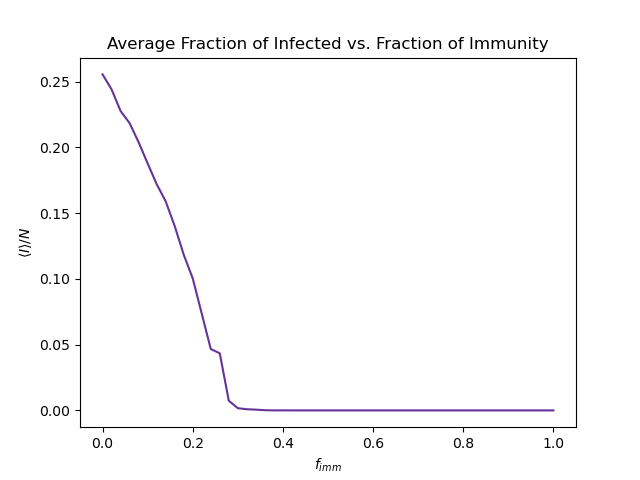
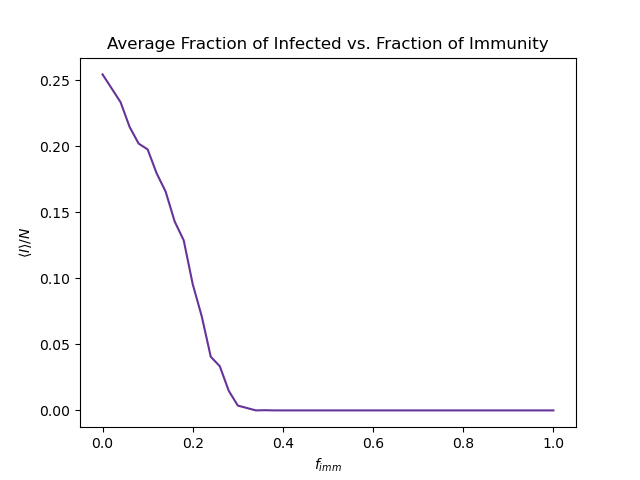
finished

diff --git a/checkpoint 2/sirs.py b/checkpoint 2/sirs.py
@@ -1,9 +1,9 @@
 import numpy as np
 import matplotlib.pyplot as plt
 from matplotlib.animation import FuncAnimation
+import matplotlib.colors as mc
 import argparse
 import random
-
 
 class SIRS:
     """Class for simulating the SIRS model on a 2D lattice"""
@@ -21,6 +21,7 @@ class SIRS:
             immune: fraction of the population with permanent immunity
             filename: filepath for writing data, if applicable
         """
+        # Initialise variables
         self.L = L
         self.sweep = L**2
         self.pS_I = pS_I
@@ -28,11 +29,9 @@ class SIRS:
         self.pR_S = pR_S
         self.immune = immune
         self.filename = filename
-
-        # Let -1 <- R; 0 <- S; 1 <- I
-        self.board = np.random.choice([-1, 0, 1], size=(L, L))
-        # Introduce permanently immune cells
-        self.immunise()
+        # Let -1 <- R; 0 <- I; 1 <- S; -2 <- immune
+        self.board = np.random.choice([-2, -1, 0, 1], size=(L, L), \
+                                      p=[immune, (1-immune)/3, (1-immune)/3, (1-immune)/3])
         # Choose which task to run
         if task == 'animation':
             self.run = self.animation
@@ -49,7 +48,6 @@ class SIRS:
                 self.filename = input("Enter filepath to save data: ")
             self.run = self.task5
 
-
     def animation(self):
         """
         Run and animate the SIRS model simulation.
@@ -58,18 +56,26 @@ class SIRS:
         print("Wait: equilibrating")
         for i in range(100 * self.sweep):
             self.update()
-
+        # Create custom cmap
+        colours = ['black', 'blue', 'red', 'white']
+        self.cmap = mc.ListedColormap(colours)
+        # Define discrete boundaries for cmap/colorbar
+        boundaries = np.linspace(-2, 1, 5)
+        # Create figure and image
         fig, ax = plt.subplots(figsize=[10, 8])
-        img = plt.imshow(self.board, cmap='bwr', vmin=-1, vmax=1)
+        img = plt.imshow(self.board, cmap=self.cmap, vmin=-2, vmax=1)
         plt.title('SIRS Model\n' +\
             rf'$p_{{S \rightarrow I}} = {self.pS_I}$, $p_{{I \rightarrow R}} = {self.pI_R}$,' +\
             rf' $p_{{R \rightarrow S}} = {self.pR_S}$, $f_{{imm}} = {self.immune}$', fontsize = 16)
-        cbar = plt.colorbar(img)
-        cbar.set_ticks([-1, 0, 1])
-        cbar.set_ticklabels(['R', 'S', 'I'], fontsize=16)
+        # Add custom colour bar
+        cbar = plt.colorbar(img, ax=ax, boundaries=boundaries)
+        cbar.set_ticks([-1.625, -0.875, -0.125, 0.625])
+        cbar.set_ticklabels([r'$immune$', r'$R$', r'$I$', r'$S$'], fontsize=16)
+
         plt.xticks([])
         plt.yticks([])  
         ani = FuncAnimation(fig, self.frame, cache_frame_data=False)
+
         plt.show()
     
     def frame(self, _):
@@ -82,13 +88,13 @@ class SIRS:
         # Clear the figure
         plt.cla()      
         # Update the figure                                                         
-        img = plt.imshow(self.board, cmap='bwr', vmin=-1, vmax=1)     
+        img = plt.imshow(self.board, cmap=self.cmap, vmin=-2, vmax=1)     
         plt.title('SIRS Model\n' +\
             rf'$p_{{S \rightarrow I}} = {self.pS_I}$, $p_{{I \rightarrow R}} = {self.pI_R}$,' +\
             rf' $p_{{R \rightarrow S}} = {self.pR_S}$, $f_{{imm}} = {self.immune}$', fontsize = 16)
         plt.xticks([])
         plt.yticks([]) 
-
+        # Return image of board for animation
         return img
     
     def update(self):
@@ -98,26 +104,22 @@ class SIRS:
         # Choose a random cell
         i = random.randint(0, self.L-1)
         j = random.randint(0, self.L-1)
-        # First check if cell is permanently immune
-        while (i, j) in self.i_cells:
-            # Exit function
-            return
         # Check state of cell and update accordingly
         if (self.board[i, j] == -1) and np.random.binomial(1, self.pR_S):
             # Change recovered to susceptible
-            self.board[i, j] = 0
-        elif (self.board[i, j] == 1) and np.random.binomial(1, self.pI_R):
+            self.board[i, j] = 1
+        elif (self.board[i, j] == 0) and np.random.binomial(1, self.pI_R):
             # Change infected to recovered
             self.board[i, j] = -1
-        elif (self.board[i, j] == 0) and np.random.binomial(1, self.pS_I):
+        elif (self.board[i, j] == 1) and np.random.binomial(1, self.pS_I):
             # Check for any infected nearest neighbours
             NN = np.array([np.roll(self.board,  1, axis=0)[i, j],
                            np.roll(self.board, -1, axis=0)[i, j],
                            np.roll(self.board,  1, axis=1)[i, j],
                            np.roll(self.board, -1, axis=1)[i, j]])
-            if 1 in set(NN):
+            if 0 in set(NN):
                 # Change susceptible to infected
-                self.board[i, j] = 1
+                self.board[i, j] = 0
 
     def task3(self):
         """
@@ -138,6 +140,7 @@ class SIRS:
                     print(f"Progress: pS_I = {pS_I}, pR_S = {pR_S}")
                     # Initialise variables for new SIRS run
                     self.pR_S = pR_S
+                    # No need to include immune cells
                     self.board = np.random.choice([-1, 0, 1], size=(self.L, self.L))
                     I = np.zeros(1000)
                     # Equilibrate
@@ -149,12 +152,11 @@ class SIRS:
                         for j in range(self.sweep):
                             self.update()
                         # Count number of infected sites
-                        I[i] = np.sum((self.board == 1).astype(int))
+                        I[i] = np.sum((self.board == 0).astype(int))
                     # Calculate average fraction of infected sites
                     I_frac = np.mean(I) / self.sweep
                     # Append data to file
                     f.write(f"{pS_I},{pR_S},{I_frac}\n")
-
 
     def task4(self):
         """
@@ -173,6 +175,7 @@ class SIRS:
                 print(f"Progress: pS_I = {pS_I}\n", end="\r")
                 # Update pS_I and clean game board
                 self.pS_I = pS_I
+                # No need to include immune cells
                 self.board = np.random.choice([-1, 0, 1], size=(self.L, self.L))
                 I = np.zeros(10000)
                 # Equilibrate
@@ -184,7 +187,7 @@ class SIRS:
                     for j in range(self.sweep):
                         self.update()
                     # Count number of infected sites
-                    I[i] = np.sum((self.board == 1).astype(int))
+                    I[i] = np.sum((self.board == 0).astype(int))
                     # Print live progress
                     print(f"Sweep {i+1}/10000", end="\r")
                 # Calculate variance of infected sites
@@ -211,9 +214,8 @@ class SIRS:
             for f_imm in f_list:
                 print(f"Progress: f = {f_imm}\n", end="\r")
                 # Update immune fraction and clean game board
-                self.immune = f_imm
-                self.board = np.random.choice([-1, 0, 1], size=(self.L, self.L))
-                self.immunise()
+                self.board = np.random.choice([-2, -1, 0, 1], size=(self.L, self.L), \
+                                      p=[f_imm, (1-f_imm)/3, (1-f_imm)/3, (1-f_imm)/3])
                 I = np.zeros(1000)
                 # Equilibrate
                 for i in range(100):
@@ -224,14 +226,31 @@ class SIRS:
                     for j in range(self.sweep):
                         self.update()
                     # Count number of infected sites
-                    I[i] = np.sum((self.board == 1).astype(int))
+                    I[i] = np.sum((self.board == 0).astype(int))
                     # Print live progress
                     print(f"Sweep {i+1}/1000", end="\r")
                 # Calculate average fraction of infected sites
                 I_frac = np.mean(I) / self.sweep
                 # Append data to file
+                print(f"Progress: I = {I_frac}")
                 f.write(f"{f_imm},{I_frac}\n")
 
+    def I_variance(self, I, axis):
+        """
+        Calculate the variance of the number of infected sites over time
+        
+        Arguments:
+            I   : list of number of infected sites over time
+            axis: axis along which means should be calculated. 0 for 1d array and 1 for 2d array (Jackknife)
+        
+        Returns:
+            variance of the number of infected sites
+        """
+        # Calculate mean, mean squared of infected sites
+        mean_I = np.mean(I, axis=axis)
+        mean_I2 = np.mean(I**2, axis=axis)
+        # Return variance
+        return (mean_I2 - mean_I**2) / self.L**2
 
     def jackknife(self, I, I_var):
         """
@@ -253,66 +272,12 @@ class SIRS:
         I_var_jack = self.I_variance(I_jack, 1)
         
         return np.sqrt(np.sum((I_var_jack - I_var)**2))                        
-    
-    def I_variance(self, I, axis):
-        """
-        Calculate the variance of the number of infected sites over time
-        
-        Arguments:
-            I   : list of number of infected sites over time
-            axis: axis along which means should be calculated. 0 for 1d array and 1 for 2d array (Jackknife)
-        
-        Returns:
-            variance of the number of infected sites
-        """
-        # Calculate mean, mean squared of infected sites
-        mean_I = np.mean(I, axis=axis)
-        mean_I2 = np.mean(I**2, axis=axis)
-        # Return variance
-        return (mean_I2 - mean_I**2) / self.L**2
-    
-
-    def immunise(self):
-        """
-        Introduce permanently immune cells
-        """
-        self.i_cells = self.immune_cells()
-
-        if len(self.i_cells) > 0:
-            i_cells = np.array(list(self.i_cells))
-            i = i_cells[:, 0]
-            j = i_cells[:, 1]
-            # Set immune cells to recovered
-            self.board[i, j] = -1 
-
-        
-    def immune_cells(self):
-        """
-        Generate unique [i, j] index pairs for each cell with immunity to the infection.
-
-        Returns:
-            list of [i, j] index pairs corresponding to permanently immune sites
-        """
-        # Compute number of immune cells
-        N = int(self.L**2 * self.immune)
-        # Choose immune sites
-        indices = np.random.choice(self.L**2, size=N, replace=False)
-        # Create arrays of row indices, array of col indices
-        i, j = np.unravel_index(indices, (self.L, self.L))
-        # Create array of immune cell positions in the SIRS model lattice
-        i_cells = np.c_[i, j]
-        # Return as set of tuples
-        if len(i_cells) > 0:
-            return set(map(tuple, i_cells))
-        else:
-            return set()
-
 
 if __name__ == "__main__":
     # Parse command line arguments
     parser = argparse.ArgumentParser()
     parser.add_argument('-L', '--size', type=int, default=50, help='System size (default: 50)')
-    parser.add_argument('-p1', '--probabilitySI', type=float, default=0.25, help='Probability of susceptible becoming infected (default: 0.2)')
+    parser.add_argument('-p1', '--probabilitySI', type=float, default=0.5, help='Probability of susceptible becoming infected (default: 0.5)')
     parser.add_argument('-p2', '--probabilityIR', type=float, default=0.5, help='Probability of infected becoming recovered (default: 0.5)')
     parser.add_argument('-p3', '--probabilityRS', type=float, default=0.5, help='Probability of recoverd becoming susceptible (default: 0.5)')
     parser.add_argument('-s', '--state', type=str, choices=['absorbing', 'dynamic', 'cyclic'], default=None, help='Select one of three preset states (default: None)')
@@ -326,7 +291,7 @@ if __name__ == "__main__":
     elif args.state == 'dynamic':
         p1, p2, p3 = 0.5, 0.5, 0.5
     elif args.state == 'cyclic':
-        p1, p2, p3 = 0.4, 0.05, 0.0056
+        p1, p2, p3 = 0.38, 0.049, 0.0056
     else:
         p1, p2, p3 = args.probabilitySI, args.probabilityIR, args.probabilityRS
 

diff --git a/checkpoint 2/README.md b/checkpoint 2/README.md
@@ -92,7 +92,7 @@ Contains the SIRS class, for running simulations of the SIRS model.
     -p1 PROBABILITYSI, --probabilitySI PROBABILITYSI
         -Probability of susceptible becoming infected 
         -Type: float
-        -Default: 0.2
+        -Default: 0.5
 
     -p2 PROBABILITYIR, --probabilityIR PROBABILITYIR
         -Probability of infected becoming recovered
